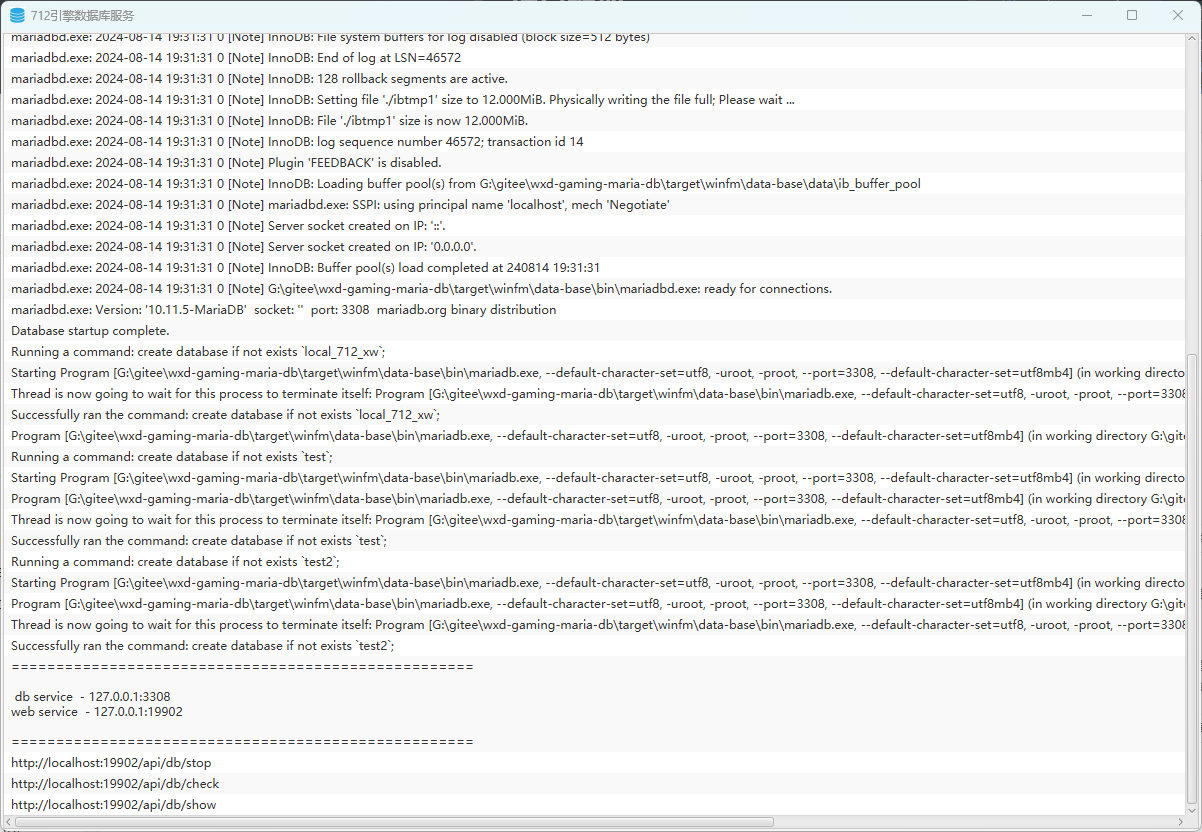
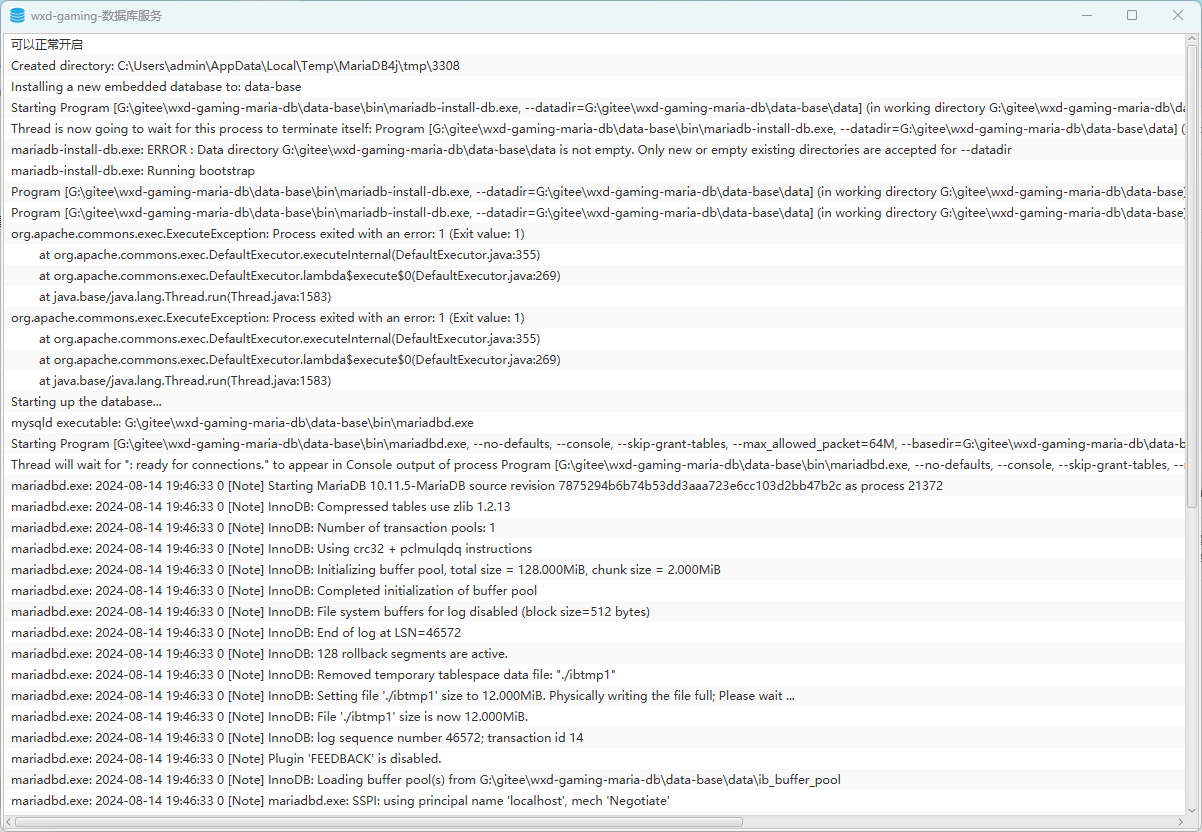
【新增】初始化

Changed region(s): [[0.0, 0.0, 1.0, 1.0], [0.985, 0.0, 1.0, 0.0312]]

diff --git a/fx/src/main/java/wxdgaming/mariadb/winfm/HelloApplication.java b/fx/src/main/java/wxdgaming/mariadb/winfm/HelloApplication.java
@@ -1,8 +1,8 @@
-package db712.winfm;
+package wxdgaming.mariadb.winfm;
 
 import com.sun.javafx.application.PlatformImpl;
-import db712.server.DBFactory;
-import db712.server.WebService;
+import wxdgaming.mariadb.server.DBFactory;
+import wxdgaming.mariadb.server.WebService;
 import javafx.application.Application;
 import javafx.application.Platform;
 import javafx.fxml.FXMLLoader;
@@ -31,7 +31,7 @@ import java.util.concurrent.CompletableFuture;
 
 public class HelloApplication extends Application {
 
-    final String title = "712引擎数据库服务";
+    final String title = "wxd-gaming-数据库服务";
     final String iconName = "db-icon.png";
 
     @Override

diff --git a/fx/src/main/java/wxdgaming/mariadb/winfm/HelloController.java b/fx/src/main/java/wxdgaming/mariadb/winfm/HelloController.java
@@ -1,11 +1,8 @@
-package db712.winfm;
+package wxdgaming.mariadb.winfm;
 
-import db712.server.DBFactory;
+import wxdgaming.mariadb.server.DBFactory;
 import javafx.application.Platform;
 import javafx.fxml.FXML;
-import javafx.scene.control.Alert;
-import javafx.scene.control.ButtonBar;
-import javafx.scene.control.ButtonType;
 import javafx.scene.control.ListView;
 import lombok.extern.slf4j.Slf4j;
 

diff --git a/fx/src/main/java/wxdgaming/mariadb/winfm/ApplicationMain.java b/fx/src/main/java/wxdgaming/mariadb/winfm/ApplicationMain.java
@@ -1,10 +1,9 @@
-package db712.winfm;
+package wxdgaming.mariadb.winfm;
 
-import db712.server.*;
 import javafx.application.Application;
+import wxdgaming.mariadb.server.*;
 
 import java.net.URL;
-import java.net.http.HttpClient;
 import java.util.List;
 import java.util.concurrent.CompletableFuture;
 

diff --git a/console/src/main/java/wxdgaming/mariadb/console/ConsoleMain.java b/console/src/main/java/wxdgaming/mariadb/console/ConsoleMain.java
@@ -1,8 +1,8 @@
-package db712.console;
+package wxdgaming.mariadb.console;
 
-import db712.server.*;
 import org.slf4j.Logger;
 import org.slf4j.LoggerFactory;
+import wxdgaming.mariadb.server.*;
 
 import java.io.BufferedReader;
 import java.io.InputStreamReader;

diff --git a/db-server/src/main/java/wxdgaming/mariadb/server/LogbackResetTimeFilter.java b/db-server/src/main/java/wxdgaming/mariadb/server/LogbackResetTimeFilter.java
@@ -1,4 +1,4 @@
-package db712.server;
+package wxdgaming.mariadb.server;
 
 import ch.qos.logback.classic.spi.IThrowableProxy;
 import ch.qos.logback.classic.spi.LoggingEvent;

diff --git a/db-server/src/main/java/wxdgaming/mariadb/server/MyDB.java b/db-server/src/main/java/wxdgaming/mariadb/server/MyDB.java
@@ -1,4 +1,4 @@
-package db712.server;
+package wxdgaming.mariadb.server;
 
 import ch.vorburger.exec.ManagedProcess;
 import ch.vorburger.exec.ManagedProcessException;

diff --git a/db-server/src/main/java/wxdgaming/mariadb/server/GvmExclude.java b/db-server/src/main/java/wxdgaming/mariadb/server/GvmExclude.java
@@ -1,4 +1,4 @@
-package db712.server;
+package wxdgaming.mariadb.server;
 
 import java.lang.annotation.ElementType;
 import java.lang.annotation.Retention;

diff --git a/db-server/src/main/java/wxdgaming/mariadb/server/DBFactory.java b/db-server/src/main/java/wxdgaming/mariadb/server/DBFactory.java
@@ -1,4 +1,4 @@
-package db712.server;
+package wxdgaming.mariadb.server;
 
 import ch.vorburger.mariadb4j.DBConfigurationBuilder;
 import lombok.Getter;

diff --git a/db-server/src/main/java/wxdgaming/mariadb/server/GraalvmUtil.java b/db-server/src/main/java/wxdgaming/mariadb/server/GraalvmUtil.java
@@ -1,4 +1,4 @@
-package db712.server;
+package wxdgaming.mariadb.server;
 
 import org.slf4j.Logger;
 import org.slf4j.LoggerFactory;

diff --git a/db-server/src/main/java/wxdgaming/mariadb/server/ReflectAction.java b/db-server/src/main/java/wxdgaming/mariadb/server/ReflectAction.java
@@ -1,4 +1,4 @@
-package db712.server;
+package wxdgaming.mariadb.server;
 
 import lombok.Getter;
 import lombok.extern.slf4j.Slf4j;

diff --git a/db-server/src/main/java/wxdgaming/mariadb/server/WebService.java b/db-server/src/main/java/wxdgaming/mariadb/server/WebService.java
@@ -1,4 +1,4 @@
-package db712.server;
+package wxdgaming.mariadb.server;
 
 
 import com.sun.net.httpserver.HttpHandler;
